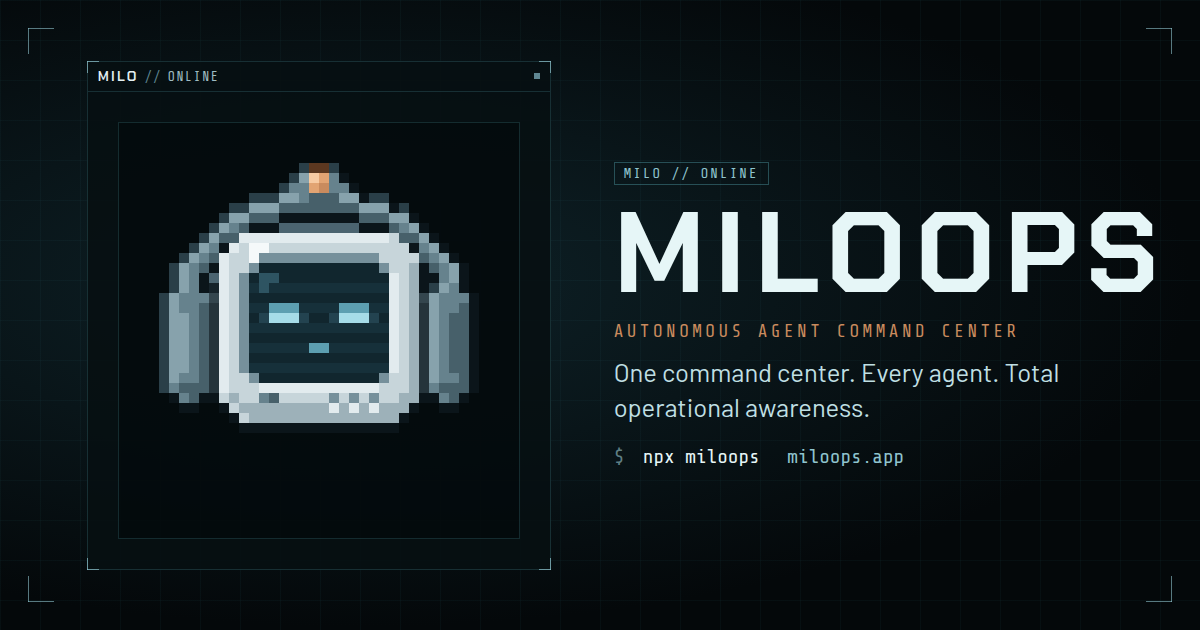
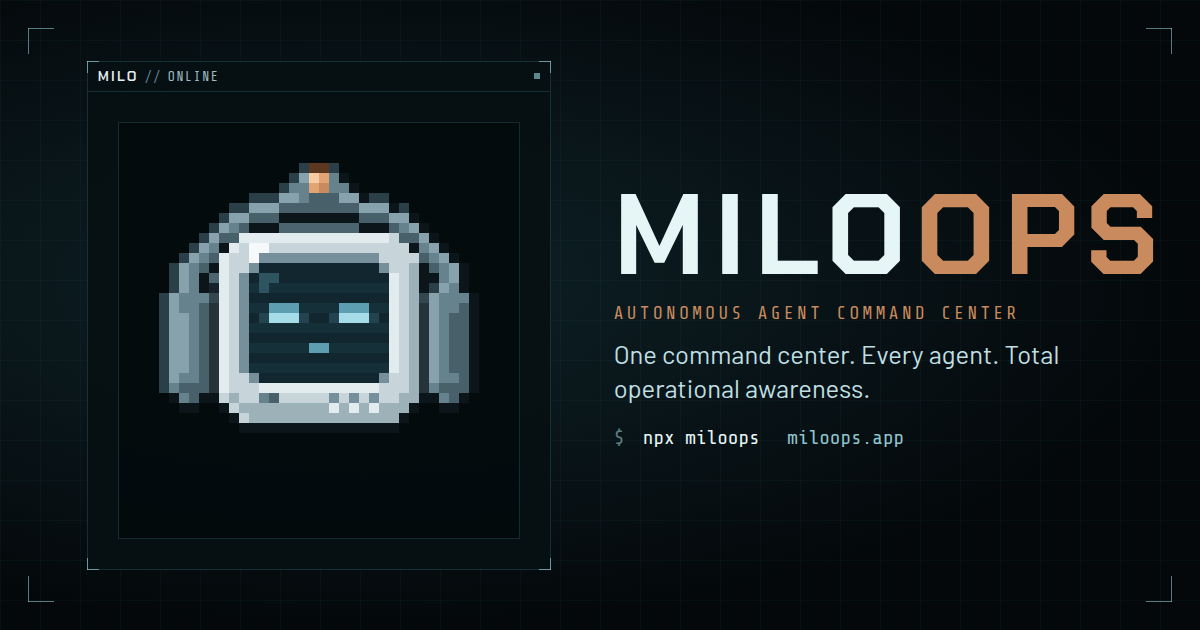
Two-tone MILO/OPS wordmark, drop duplicated labels, re-render brand kit
- Wordmark: MILO in the light tone, OPS in MILO's antenna copper (#c98b5e) via a
  shared --brand-ops token and .wordmark-ops class in the landing and command
  center; BRAND.wordmark in core; single WORDMARK parameter in the brand generator.
- Brand kit: remove the 'MILO // ONLINE' chip above the banner wordmark (the
  avatar frame header already says it); re-render brand/ and the landing OG image.
- Command center: demo tracker label 'Demo' (was 'TRACKER · DEMO TRACKER' and
  'tracker demo tracker'); Decisions view title shows a count only when filtered.
- Landing: open-source card chip 'MIT license' instead of repeating 'Free · open source'.
- capture.mjs resolves fonts from hoisted node_modules.

Changed region(s): [[0.4933, 0.2413, 0.9867, 0.754]]

diff --git a/index.html b/index.html
@@ -49,7 +49,7 @@
       <div class="wrap nav__inner">
         <a class="brand" href="#top" aria-label="MILOOPS home">
           <svg class="brand__mark" aria-hidden="true"><use href="#mark" /></svg>
-          <span class="brand__name">MILOOPS</span>
+          <span class="brand__name">MILO<span class="wordmark-ops">OPS</span></span>
         </a>
         <nav class="nav__links" aria-label="Primary">
           <a href="#how">How it works</a>
@@ -428,7 +428,7 @@
             <article class="plan plan--now reveal">
               <div class="plan__head">
                 <h3>What you get</h3>
-                <span class="label label--ok">Free · open source</span>
+                <span class="label label--ok">MIT license</span>
               </div>
               <ul>
                 <li>The full command center, on any screen</li>
@@ -548,7 +548,7 @@
         <div class="footer__brand">
           <a class="brand" href="#top" aria-label="MILOOPS home">
             <svg class="brand__mark" aria-hidden="true"><use href="#mark" /></svg>
-            <span class="brand__name">MILOOPS</span>
+            <span class="brand__name">MILO<span class="wordmark-ops">OPS</span></span>
           </a>
           <p>One command center. Every agent. Total operational awareness.</p>
         </div>

diff --git a/src/styles.css b/src/styles.css
@@ -16,6 +16,8 @@
   --action-hi: #d29a74;
   --ok: #7fae9a;
   --warn: #ff4d42;
+  /* "OPS" half of the wordmark: MILO's antenna copper, shared with the brand kit. */
+  --brand-ops: #c98b5e;
 
   --display: 'Chakra Petch', 'Barlow', system-ui, sans-serif;
   --mono: 'Share Tech Mono', ui-monospace, SFMono-Regular, Menlo, monospace;
@@ -262,6 +264,10 @@ code {
   font-weight: 400;
   letter-spacing: 0.38em;
   color: var(--text-hi);
+}
+
+.wordmark-ops {
+  color: var(--brand-ops);
 }
 
 .nav__links {
